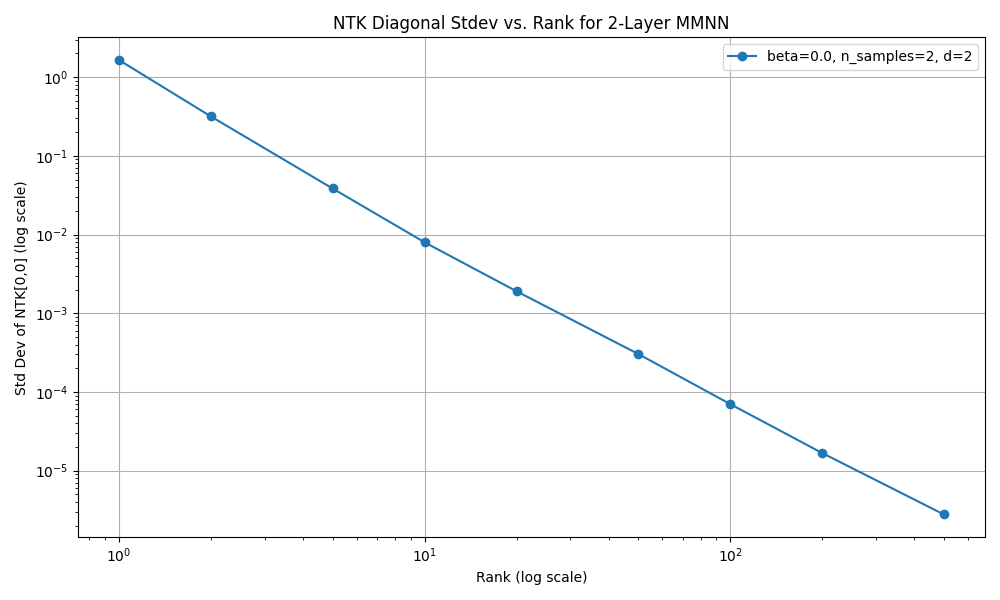
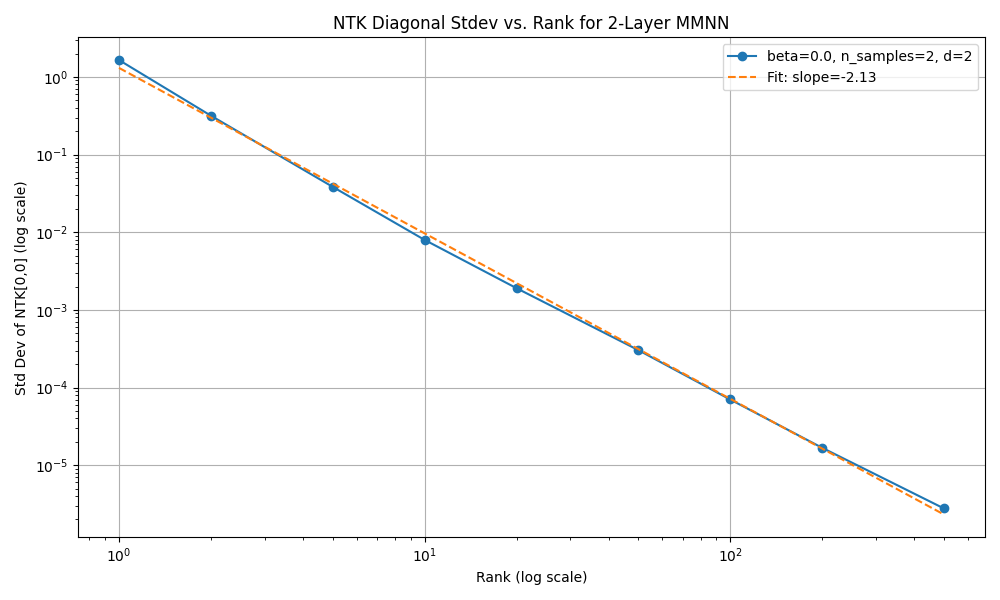
with the random field i get this scaling 1/fan_mid², testing the other

diff --git a/experiments/mmnn_plots/2layer_std.py b/experiments/mmnn_plots/2layer_std.py
@@ -6,6 +6,7 @@ from tqdm import tqdm
 import os
 import pathlib
 import numpy as np
+from scipy.stats import linregress
 
 # we create output directory
 pathlib.Path("figures/2layer_std_analysis").mkdir(parents=True, exist_ok=True)
@@ -26,6 +27,11 @@ sigma_c = 1.0
 # we store results
 stds = []
 
+# we create a subdirectory for distribution plots
+dist_plot_dir = f"figures/2layer_std_analysis/distributions_beta{beta}_n{n_samples}_d{input_dim}"
+pathlib.Path(dist_plot_dir).mkdir(parents=True, exist_ok=True)
+
+
 # we generate test data once
 X = random.normal(key, (n_samples, input_dim))
 X = X / jnp.linalg.norm(X, axis=1, keepdims=True)  # we normalize to unit sphere
@@ -33,7 +39,7 @@ X = X / jnp.linalg.norm(X, axis=1, keepdims=True)  # we normalize to unit sphere
 with tqdm(total=len(ranks_to_test), desc="Computing NTK std dev vs rank") as pbar:
     for rank in ranks_to_test:
         ntk_samples = []
-        for i in tqdm(range(n_ntk_samples), desc="Computing NTK samples"):
+        for i in tqdm(range(n_ntk_samples), desc=f"Rank {rank} NTK samples", leave=False):
             # we compute one NTK sample
             ntk = compute_ntk_2layer_montecarlo_random_field(
                 X,
@@ -52,17 +58,53 @@ with tqdm(total=len(ranks_to_test), desc="Computing NTK std dev vs rank") as pba
         if ntk_samples:
             # we compute std of diagonal elements
             ntk_samples_array = jnp.array(ntk_samples)
-            # we take the std over the n_ntk_samples dimension for the first diagonal element.
-            std_diag = jnp.std(ntk_samples_array[:, 0, 0]) 
+            diag_samples = ntk_samples_array[:, 0, 0]
+            std_diag = jnp.std(diag_samples)
+            mean_diag = jnp.mean(diag_samples)
             stds.append(std_diag)
+
+            # we plot the ntk distribution
+            plt.figure(figsize=(8, 6))
+            plt.hist(diag_samples, bins='auto', density=True)
+            plt.axvline(mean_diag, color='r', linestyle='--', label=f'Mean: {mean_diag:.3f}')
+            plt.title(f'NTK[0,0] Distribution (rank={rank})')
+            plt.xlabel("NTK[0,0] Value")
+            plt.ylabel("Density")
+            plt.text(0.05, 0.95, f'Std: {std_diag:.2e}', transform=plt.gca().transAxes, fontsize=12, verticalalignment='top')
+            plt.legend()
+            
+            dist_plot_filename = f"{dist_plot_dir}/ntk_dist_rank{rank}.png"
+            plt.savefig(dist_plot_filename)
+            plt.close()
         else:
             stds.append(np.nan) # we append nan if all computations failed
 
         pbar.update(1)
 
+# we filter out nan values for the fit
+ranks_for_fit = np.array([r for r, s in zip(ranks_to_test, stds) if s and not np.isnan(s) and s > 0])
+stds_for_fit = np.array([s for s in stds if s and not np.isnan(s) and s > 0])
+
+# we fit a slope to the log-log plot
+if len(ranks_for_fit) > 1:
+    log_ranks = np.log(ranks_for_fit)
+    log_stds = np.log(stds_for_fit)
+    slope, intercept, _, _, _ = linregress(log_ranks, log_stds)
+    fit_label = f'Fit: slope={slope:.2f}'
+else:
+    slope = np.nan
+    intercept = np.nan
+    fit_label = "Not enough data to fit slope"
+
 # we plot the results
 plt.figure(figsize=(10, 6))
 plt.loglog(ranks_to_test, stds, 'o-', label=f'beta={beta}, n_samples={n_samples}, d={input_dim}')
+
+if not np.isnan(slope):
+    # we plot the fitted line
+    fit_line = np.exp(intercept) * (ranks_to_test ** slope)
+    plt.loglog(ranks_to_test, fit_line, '--', label=fit_label)
+
 plt.xlabel('Rank (log scale)')
 plt.ylabel('Std Dev of NTK[0,0] (log scale)')
 plt.title('NTK Diagonal Stdev vs. Rank for 2-Layer MMNN')
